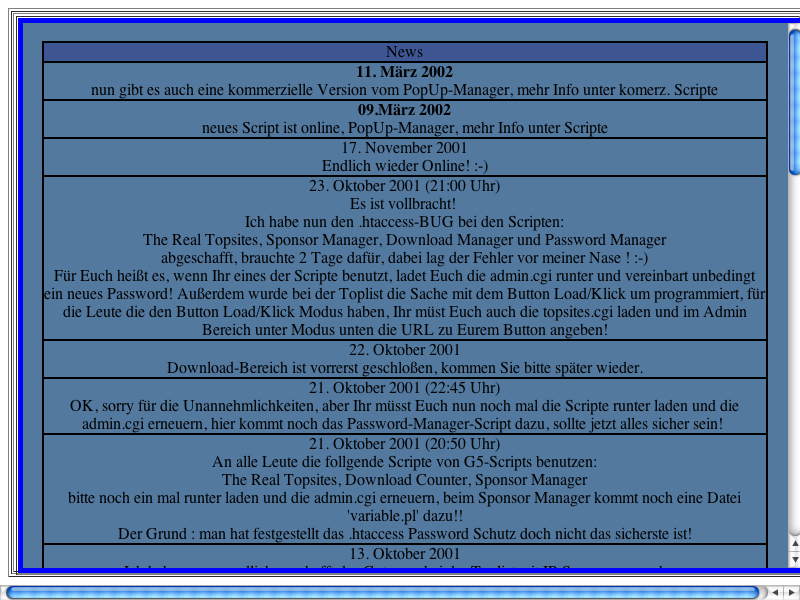
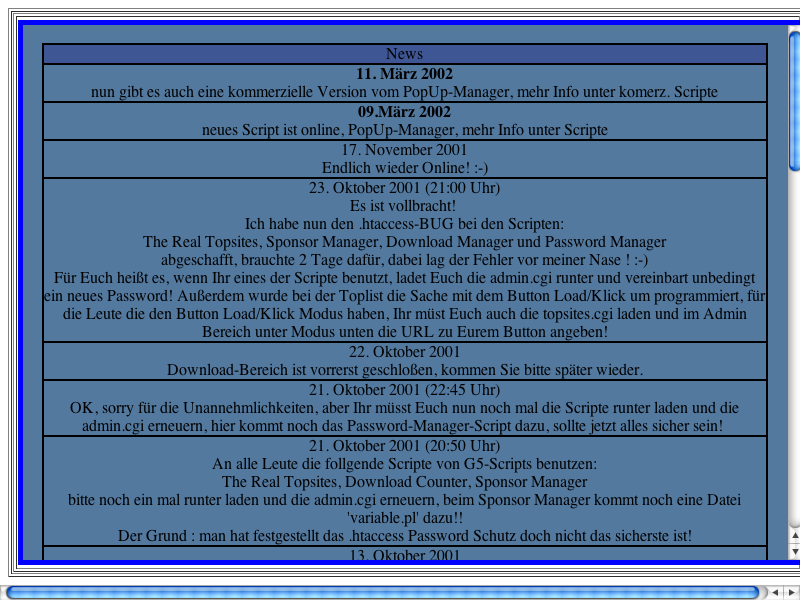
WebCore:        Reviewed by Hyatt.
Fix for <rdar://problem/5120889> Sized table cells w/borders not 
        drawn to correct size

        When table cells have children with %-height, the cells were 
        incorrectly shrinking down to be the size of the child. This 
        exposed another problem with replaced children and sizing.

        * rendering/RenderBox.cpp:
        (WebCore::RenderBox::calcReplacedHeightUsing): The exposed problem. 
        Subtract our borders and padding in the auto or percent table cell 
        containing block case.
        * rendering/RenderTableSection.cpp:
        (WebCore::RenderTableSection::layoutRows): When our children can 
        flex, do not always set the cellTopExtra and cellBottomExtra to 0! 
        That is bad! We should do the same as the non-flex case.

Layout Tests:
        Reviewed by Hyatt.

        Series of new/rearranged results after fix for <rdar://problem/
        5120889> Sized table cells w/borders not drawn to correct size

        These tests are different by tiny, barely noticeable amounts. The 
        new results are more correct. We didn't catch the problem before 
        because it was so subtle here:
        * fast/replaced/width100percent-expected.txt:
        * fast/table/003-expected.checksum:
        * fast/table/003-expected.png:
        * fast/table/003-expected.txt:

        This is the test that exposed the other problem with replaced 
        children. Now we fit snugly inside the border on the bottom, which
[…]

Changed region(s): [[0.0, 0.03, 1.0, 0.96]]

diff --git a/WebCore/rendering/RenderTableSection.cpp b/WebCore/rendering/RenderTableSection.cpp
@@ -494,45 +494,42 @@ int RenderTableSection::layoutRows(int toAdd)
                 // Alignment within a cell is based off the calculated
                 // height, which becomes irrelevant once the cell has
                 // been resized based off its percentage. -dwh
-                cell->setCellTopExtra(0);
-                cell->setCellBottomExtra(0);
-
                 cell->setOverrideSize(max(0, 
                                            rHeight - cell->borderTop() - cell->paddingTop() - 
                                                      cell->borderBottom() - cell->paddingBottom()));
                 cell->layoutIfNeeded();
-            } else {
-                int te = 0;
-                switch (cell->style()->verticalAlign()) {
-                    case SUB:
-                    case SUPER:
-                    case TEXT_TOP:
-                    case TEXT_BOTTOM:
-                    case BASELINE:
-                        te = getBaseline(r) - cell->baselinePosition() ;
-                        break;
-                    case TOP:
-                        te = 0;
-                        break;
-                    case MIDDLE:
-                        te = (rHeight - cell->height()) / 2;
-                        break;
-                    case BOTTOM:
-                        te = rHeight - cell->height();
-                        break;
-                    default:
-                        break;
-                }
-                
-                int oldTe = cell->borderTopExtra();
-                int oldBe = cell->borderBottomExtra();
-                
-                int be = rHeight - cell->height() - te;
-                cell->setCellTopExtra(te);
-                cell->setCellBottomExtra(be);
-                if ((te != oldTe || be > oldBe) && !table()->selfNeedsLayout() && cell->checkForRepaintDuringLayout())
-                    cell->repaint();
             }
+            
+            int te = 0;
+            switch (cell->style()->verticalAlign()) {
+                case SUB:
+                case SUPER:
+                case TEXT_TOP:
+                case TEXT_BOTTOM:
+                case BASELINE:
+                    te = getBaseline(r) - cell->baselinePosition() ;
+                    break;
+                case TOP:
+                    te = 0;
+                    break;
+                case MIDDLE:
+                    te = (rHeight - cell->height()) / 2;
+                    break;
+                case BOTTOM:
+                    te = rHeight - cell->height();
+                    break;
+                default:
+                    break;
+            }
+                
+            int oldTe = cell->borderTopExtra();
+            int oldBe = cell->borderBottomExtra();
+                
+            int be = rHeight - cell->height() - te;
+            cell->setCellTopExtra(te);
+            cell->setCellBottomExtra(be);
+            if ((te != oldTe || be > oldBe) && !table()->selfNeedsLayout() && cell->checkForRepaintDuringLayout())
+                cell->repaint();
             
             IntRect oldCellRect(cell->xPos(), cell->yPos() - cell->borderTopExtra() , cell->width(), cell->height());
         

diff --git a/WebCore/rendering/RenderBox.cpp b/WebCore/rendering/RenderBox.cpp
@@ -1415,9 +1415,15 @@ int RenderBox::calcReplacedHeightUsing(Length height) const
                 cb->calcHeight();
                 int newHeight = cb->calcContentBoxHeight(cb->contentHeight());
                 cb->setHeight(oldHeight);
-
                 return calcContentBoxHeight(height.calcValue(newHeight));
             }
+            
+            // It is necessary to use the border-box to match WinIE's broken
+            // box model.  This is essential for sizing inside
+            // table cells using percentage heights.
+            if (cb->isTableCell() && (cb->style()->height().isAuto() || cb->style()->height().isPercent()))
+                return height.calcValue(cb->availableHeight() - (borderTop() + borderBottom()
+                    + paddingTop() + paddingBottom()));
 
             return calcContentBoxHeight(height.calcValue(cb->availableHeight()));
         }
